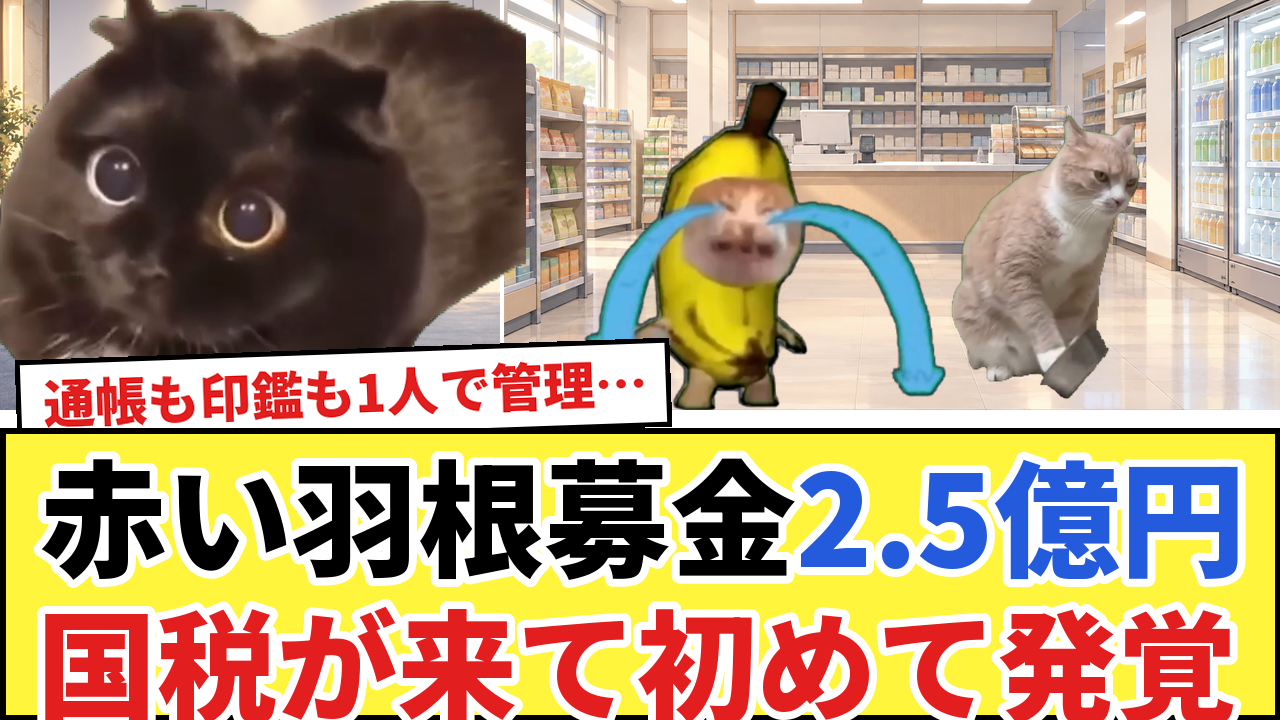
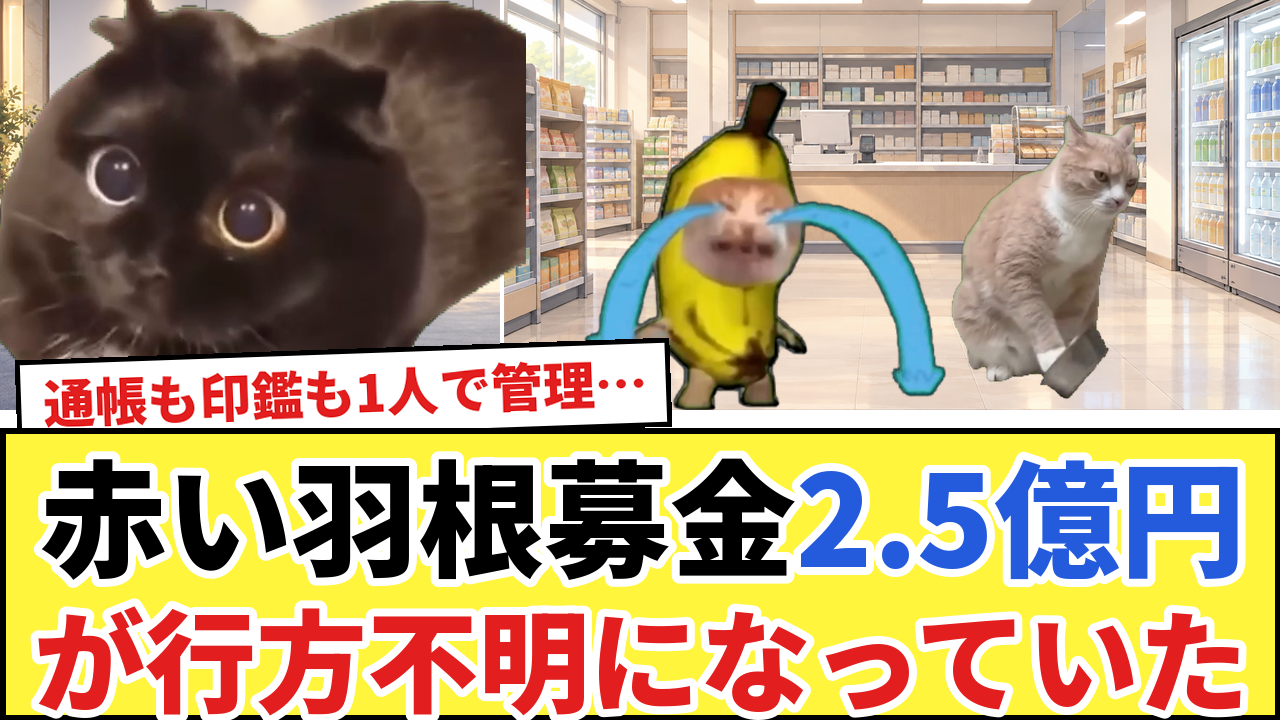
12本目サムネA：「赤い羽根募金2.5億円／が行方不明になっていた」に
Claude-Session: https://claude.ai/code/session_011g9CsrfFD5YswfNSvNDW39

Changed region(s): [[0.0, 0.825, 1.0, 1.0]]

diff --git a/catmeme/make_thumb_long_ref.py b/catmeme/make_thumb_long_ref.py
@@ -176,7 +176,7 @@ def akaihane():
            ("surprise_big_pupils_cat", 0.6, 250, 470, 520, False),
            [("sad_banana_cat_cry", 1.0, 760, 410, 330, True), ("sulk_hungry_cat", 1.0, 1080, 410, 300, True)],
            "通帳も印鑑も1人で管理…",
-           [("赤い羽根募金", BLACK), ("2.5億円", BLUE)], [("国税が来て初めて発覚", RED)])
+           [("赤い羽根募金", BLACK), ("2.5億円", BLUE)], [("が行方不明になっていた", RED)])   # 何が起きたか分かる文言に（10/13 ユーザー指定）
     type_b("12_akaihane_ref_b.png",
            [("bg07_press", [("huh_huh_cat", 1.0, 160, 470, 360, False)]),
             ("bg15_convenience", [("sad_banana_cat_cry", 1.0, 160, 470, 360, False)]),
@@ -193,7 +193,7 @@ def akaihane():
            "赤い羽根2.5億円が行方不明 通帳も印鑑も1人で管理", "善意どこ行った")
 
 
-if __name__ == "__main__":
+if __name__ == "__main__" and os.environ.get("THUMB", "12") == "12":
     akaihane()
 
 

diff --git a/catmeme/scripts/12_akaihane_youtube.md b/catmeme/scripts/12_akaihane_youtube.md
@@ -6,7 +6,7 @@
 3. 【猫ミーム】今年は大臣も赤い羽根をつけない理由…それでも募金する？しない？ #猫ミーム
 
 ## サムネ（固定の3パターンから選ぶ・10/13）
-- A：release/12_akaihane_thumb_a.png（写真2枚＋札「通帳も印鑑も1人で管理…」＋黄色の地「赤い羽根募金2.5億円／国税が来て初めて発覚」）
+- A：release/12_akaihane_thumb_a.png（写真2枚＋札「通帳も印鑑も1人で管理…」＋黄色の地「赤い羽根募金2.5億円／が行方不明になっていた」）
 - B：release/12_akaihane_thumb_b.png（写真4枚＋矢印と書き文字＋「赤い羽根2.5億円が／行方不明に大激怒」）
 - C：release/12_akaihane_thumb_c.png（写真全面＋上の黒帯「赤い羽根2.5億円が行方不明 通帳も印鑑も1人で管理」＋「善意どこ行った」）
 - 元事務局長は描かない
